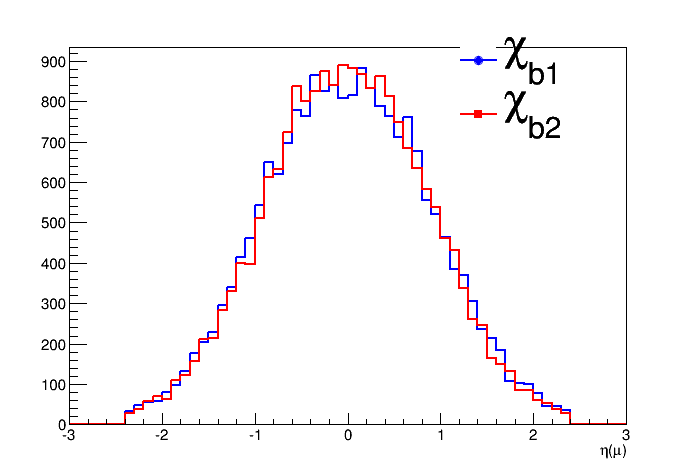
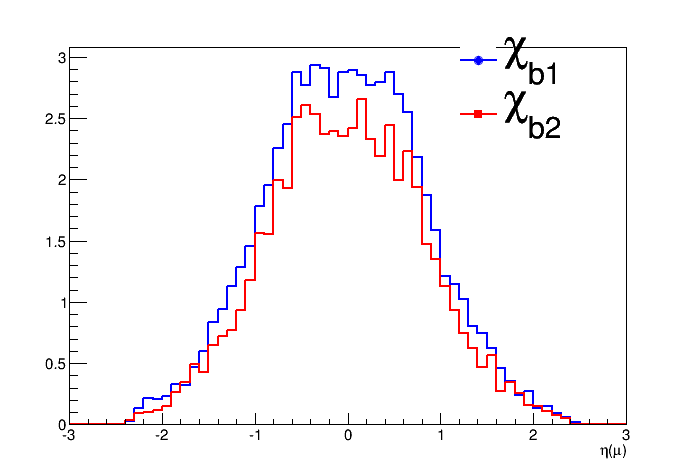
studied muons cuts

diff --git a/provaVariCuts/muons/cutMuons.py b/provaVariCuts/muons/cutMuons.py
@@ -1,14 +1,17 @@
 #!/usr/bin/python
 from __future__ import division
-from ROOT import gSystem, gROOT, gStyle, TFile, TTree, TH1, TH1D, TCanvas, THStack
+from ROOT import gSystem, gROOT, gStyle, TFile, TTree, TH1, TH1D,TH2D, TCanvas, THStack, TLine
 import ROOT, sys, getopt, math
 sys.path.append('../..')
 sys.path.append('../../Polarization')
 from pyUtils import *
 from polarization import *
 
-rootupla_gen_1 = '../../../store/GenParticles_ChiB_1P_1_Upsilon2SPt.root'
-rootupla_gen_2 = '../../../store/GenParticles_ChiB_1P_2_Upsilon2SPt.root'
+# rootupla_gen_1 = '../../../store/GenParticles_ChiB_1P_1_Upsilon2SPt.root'
+# rootupla_gen_2 = '../../../store/GenParticles_ChiB_1P_2_Upsilon2SPt.root'
+
+rootupla_gen_1 = '../../../store/ChiB_1P_1_Upsilon2SPt.root'
+rootupla_gen_2 = '../../../store/ChiB_1P_2_Upsilon2SPt.root'
 
 
 outputFile_name = 'cutMuons'
@@ -21,7 +24,8 @@ def printAcceptance():
         rootupla = rootupla_gen_1 if chib_state == 1 else rootupla_gen_2
         in_file = TFile.Open(rootupla,'READ')
         tree = TTree()
-        in_file.GetObject('rootuple/GenParticlesTree', tree)
+        #in_file.GetObject('rootuple/GenParticlesTree', tree)
+        in_file.GetObject('rootuple/chibTree', tree)
 
         N0 = 0
         N1 = 0
@@ -30,14 +34,18 @@ def printAcceptance():
         for event in tree:
             if cont == 10000:
                 break
-            if event.Upsilon_pt > cuts.upsilon_pt_lcut and event.Upsilon_pt < cuts.upsilon_pt_hcut and abs(event.photon_eta) < cuts.photon_eta_cut and abs(event.Upsilon_rapidity) < cuts.upsilon_rapidity_cut and abs(event.muP_p4.Eta()) < 2.4 and abs(event.muM_p4.Eta()) < 2.4:
+            # if event.Upsilon_pt > cuts.upsilon_pt_lcut and event.Upsilon_pt < cuts.upsilon_pt_hcut and abs(event.photon_eta) < cuts.photon_eta_cut and abs(event.Upsilon_rapidity) < cuts.upsilon_rapidity_cut:
+            if event.Upsilon_p4.Pt() > cuts.upsilon_pt_lcut  and event.Upsilon_p4.Pt() < cuts.upsilon_pt_hcut and abs(event.photon_p4.Eta()) < cuts.photon_eta_cut and abs(event.Upsilon_p4.Rapidity()) < cuts.upsilon_rapidity_cut:
                 muP_pt = event.muP_p4.Pt()
                 muP_eta = event.muP_p4.Eta()
                 ups_dir, mu_dir = upsilonMuDirections(event.chib_p4, event.Upsilon_p4, event.muP_p4,'hx')
                 weight = angDist(ups_dir, mu_dir, chib_state, None)
                 N0 += weight
                 cont += 1
-                if  abs(muP_eta) < 2.4 and abs(event.muM_p4.Eta()) < 2.4 and muP_pt > 2.5 and event.muM_p4.Pt() > 2.5:
+                #if  abs(muP_eta) < 2.4 and abs(event.muM_p4.Eta()) < 2.4 and muP_pt > 2.5 and event.muM_p4.Pt() > 2.5: 
+                if (abs(muP_eta) > 1.4 and abs(muP_eta) < 1.6 and abs(event.muM_p4.Eta()) > 1.4 and abs(event.muM_p4.Eta()) < 1.6 and muP_pt > 3 and event.muM_p4.Pt() > 3) \
+                or (abs(muP_eta) > 1.2 and abs(muP_eta) < 1.4 and abs(event.muM_p4.Eta()) > 1.2 and abs(event.muM_p4.Eta()) < 1.4 and muP_pt > 3.5 and event.muM_p4.Pt() > 3.5) \
+                or (abs(muP_eta) < 1.1 and abs(event.muM_p4.Eta()) < 1.1 and muP_pt > 4.5 and event.muM_p4.Pt() > 4.5):
                     N1 += weight
 
         return N0, N1
@@ -60,37 +68,73 @@ def makePlots():
     histos_chib1['mu_pt'] = TH1D('mu_pt_chib1', '#chi_{b1};p_{T}(#mu);',60, 0, 30)
     histos_chib1['mu_eta'] = TH1D('mu_eta_chib1', '#chi_{b1};#eta(#mu);',60, -3, 3)
 
+    histos_chib1['mu_pt_1'] = TH1D('mu_pt_1_chib1', '#chi_{b1};p_{T}(#mu);',60, 0, 30)
+    histos_chib1['mu_pt_2'] = TH1D('mu_pt_2_chib1', '#chi_{b1};p_{T}(#mu);',60, 0, 30)
+    histos_chib1['mu_pt_3'] = TH1D('mu_pt_3_chib1', '#chi_{b1};p_{T}(#mu);',60, 0, 30)
+    histos_chib1['mu_pt_4'] = TH1D('mu_pt_4_chib1', '#chi_{b1};p_{T}(#mu);',60, 0, 30)
+     
+
     histos_chib2['mu_pt'] = TH1D('mu_pt_chib2', '#chi_{b2};p_{T}(#mu);',60, 0, 30)
     histos_chib2['mu_eta'] = TH1D('mu_eta_chib2', '#chi_{b2};#eta(#mu);',60, -3, 3)
 
+    histos_chib2['mu_pt_1'] = TH1D('mu_pt_1_chib2', '#chi_{b1};p_{T}(#mu);',60, 0, 30)
+    histos_chib2['mu_pt_2'] = TH1D('mu_pt_2_chib2', '#chi_{b1};p_{T}(#mu);',60, 0, 30)
+    histos_chib2['mu_pt_3'] = TH1D('mu_pt_3_chib3', '#chi_{b1};p_{T}(#mu);',60, 0, 30)
+    histos_chib2['mu_pt_4'] = TH1D('mu_pt_4_chib3', '#chi_{b1};p_{T}(#mu);',60, 0, 30)
 
-    titles = dict( mu_pt = ';p_{T}(#mu);',
-                   mu_eta = ';#eta(#mu);')
+    h2D_chib1 = TH2D('pt_vs_eta_chib1', '#chi_{b1};#eta(#mu);p_{T}(#mu)',60, -3, 3, 60, 0, 30)
+    h2D_chib2 = TH2D('pt_vs_eta_chib2', '#chi_{b2};#eta(#mu);p_{T}(#mu)',60, -3, 3, 60, 0, 30)
+
+    titles = dict( mu_pt = 'No cut on |#eta|;p_{T}(#mu);',
+                   mu_eta = ';#eta(#mu);',
+                   mu_pt_1 = '1.4<|#eta|<1.6;p_{T}(#mu);',
+                   mu_pt_2 = '1.2<|#eta|<1.4;p_{T}(#mu);',
+                   mu_pt_3 = '|#eta|<1.1;p_{T}(#mu);',
+                   mu_pt_4 = '|#eta|<2.4;p_{T}(#mu);',)
 
 
-    def fillHistos(chib_state, histos):
+    def fillHistos(chib_state, histos, h2D):
         rootupla = rootupla_gen_1 if chib_state == 1 else rootupla_gen_2
         in_file = TFile.Open(rootupla,'READ')
         tree = TTree()
-        in_file.GetObject('rootuple/GenParticlesTree', tree)
+        #in_file.GetObject('rootuple/GenParticlesTree', tree)
+        in_file.GetObject('rootuple/chibTree', tree)
 
         cont = 0
         for event in tree:
             if cont == 10000:
                 break
-            if event.Upsilon_pt > cuts.upsilon_pt_lcut  and event.Upsilon_pt < cuts.upsilon_pt_hcut and abs(event.photon_eta) < cuts.photon_eta_cut and abs(event.Upsilon_rapidity) < cuts.upsilon_rapidity_cut and abs(event.muP_p4.Eta()) < 2.4 and abs(event.muM_p4.Eta()) < 2.4:
+            #if event.Upsilon_pt > cuts.upsilon_pt_lcut  and event.Upsilon_pt < cuts.upsilon_pt_hcut and abs(event.photon_eta) < cuts.photon_eta_cut and abs(event.Upsilon_rapidity) < cuts.upsilon_rapidity_cut:
+            if event.Upsilon_p4.Pt() > cuts.upsilon_pt_lcut  and event.Upsilon_p4.Pt() < cuts.upsilon_pt_hcut and abs(event.photon_p4.Eta()) < cuts.photon_eta_cut and abs(event.Upsilon_p4.Rapidity()) < cuts.upsilon_rapidity_cut:
+
                 muP_pt = event.muP_p4.Pt()
                 muP_eta = event.muP_p4.Eta()
                 ups_dir, mu_dir = upsilonMuDirections(event.chib_p4, event.Upsilon_p4, event.muP_p4,'hx')
-                weight = 1#angDist(ups_dir, mu_dir, chib_state, None)
+                weight = angDist(ups_dir, mu_dir, chib_state, None)
                 histos['mu_pt'].Fill(muP_pt, weight)
                 histos['mu_pt'].Fill(event.muM_p4.Pt(), weight)
                 histos['mu_eta'].Fill(muP_eta, weight)
                 histos['mu_eta'].Fill(event.muM_p4.Eta(), weight)
+
+                h2D.Fill(muP_eta, muP_pt, weight)
+                h2D.Fill(event.muM_p4.Eta(), event.muM_p4.Pt(), weight)
+
+                if abs(muP_eta) > 1.4 and abs(muP_eta) < 1.6: histos['mu_pt_1'].Fill(muP_pt, weight)
+                if abs(event.muM_p4.Eta()) > 1.4 and abs(event.muM_p4.Eta()) < 1.6: histos['mu_pt_1'].Fill(event.muM_p4.Pt(), weight)
+
+                if abs(muP_eta) > 1.2 and abs(muP_eta) < 1.4: histos['mu_pt_2'].Fill(muP_pt, weight)
+                if abs(event.muM_p4.Eta()) > 1.2 and abs(event.muM_p4.Eta()) < 1.4: histos['mu_pt_2'].Fill(event.muM_p4.Pt(), weight)
+
+                if abs(muP_eta) < 1.1: histos['mu_pt_3'].Fill(muP_pt, weight)
+                if abs(event.muM_p4.Eta()) < 1.1: histos['mu_pt_3'].Fill(event.muM_p4.Pt(), weight)
+
+                if abs(muP_eta) < 2.4: histos['mu_pt_4'].Fill(muP_pt, weight)
+                if abs(event.muM_p4.Eta()) < 2.4: histos['mu_pt_4'].Fill(event.muM_p4.Pt(), weight)
+                
                 cont += 1
 
-    fillHistos(1, histos_chib1)
-    fillHistos(2, histos_chib2)
+    fillHistos(1, histos_chib1, h2D_chib1)
+    fillHistos(2, histos_chib2, h2D_chib2)
 
     #for histo in histos_chib1.values()+histos_chib2.values():
     #    histo.Scale(1./histo.Integral())   
@@ -123,6 +167,12 @@ def makePlots():
         canvas.Update()
         canvas.Print(outputFile_name+'.ps')
         canvas.Print(key+'.png')
+    h2D_chib1.Draw('colz')
+    canvas.Update()
+    canvas.Print(outputFile_name+'.ps')
+    h2D_chib2.Draw('colz')
+    canvas.Update()
+    canvas.Print(outputFile_name+'.ps')
     canvas.Print(outputFile_name+".ps]") #chiude file .ps
 
 
